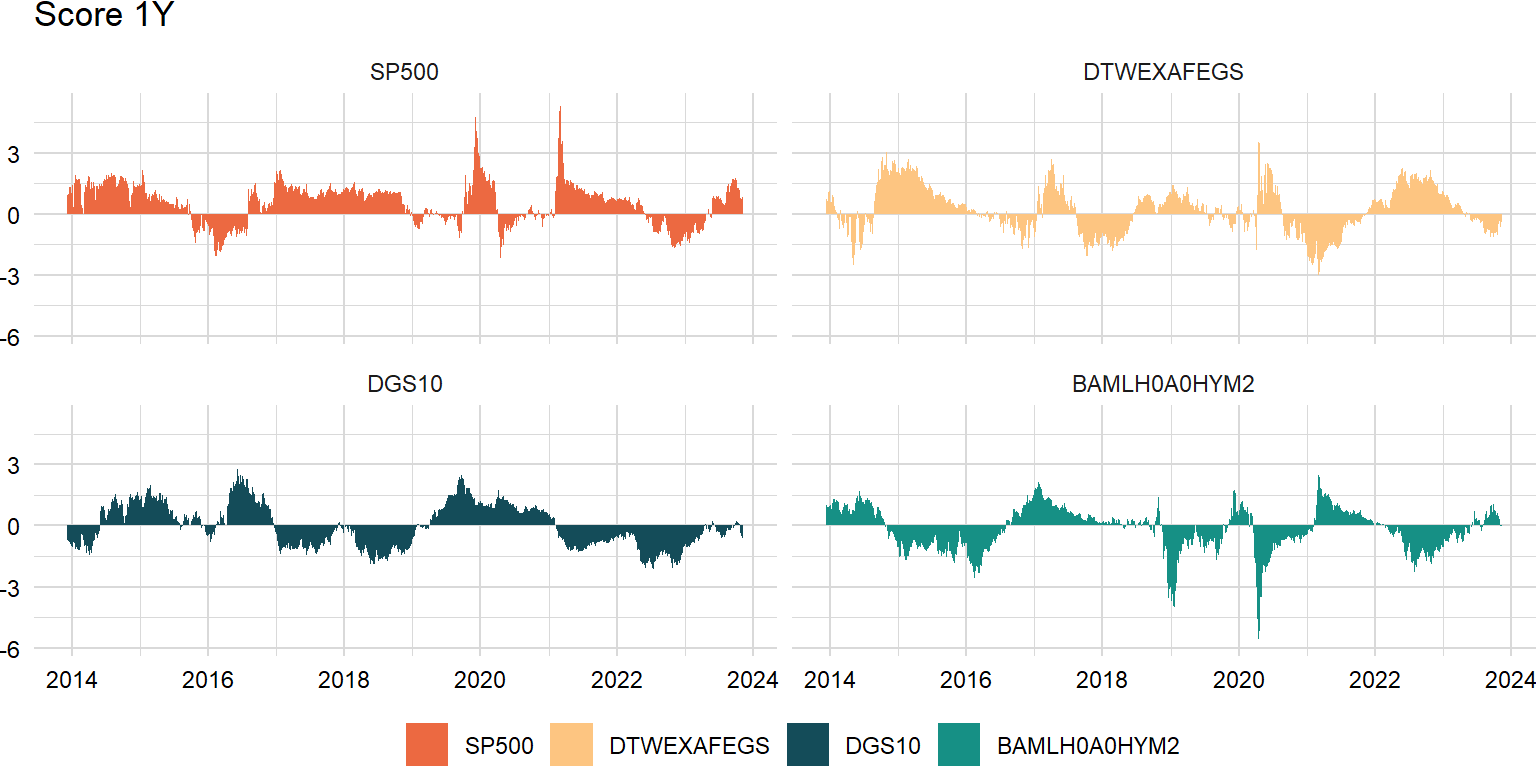
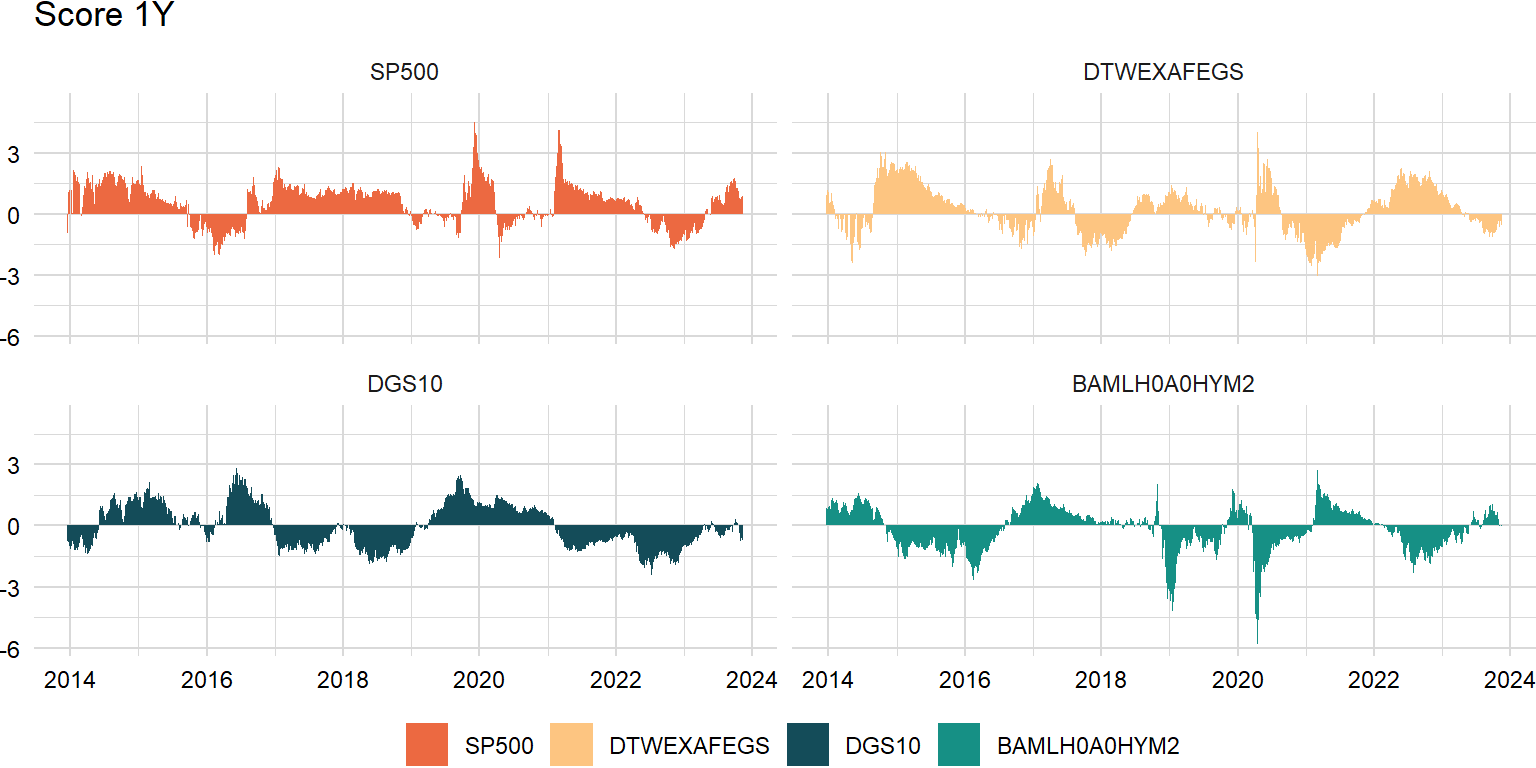
Version: 1.0.0

diff --git a/docs/posts/markets-r/index.html b/docs/posts/markets-r/index.html
@@ -7,7 +7,7 @@
 <meta name="viewport" content="width=device-width, initial-scale=1.0, user-scalable=yes">
 
 <meta name="author" content="Jason Foster">
-<meta name="dcterms.date" content="2023-11-11">
+<meta name="dcterms.date" content="2023-11-17">
 
 <title>jjf234.github.io - Markets</title>
 <style>
@@ -157,7 +157,7 @@ pre > code.sourceCode > span > a:first-child::before { text-decoration: underlin
       <div>
       <div class="quarto-title-meta-heading">Published</div>
       <div class="quarto-title-meta-contents">
-        <p class="date">November 11, 2023</p>
+        <p class="date">November 17, 2023</p>
       </div>
     </div>
     
@@ -320,31 +320,28 @@ pre > code.sourceCode > span > a:first-child::before { text-decoration: underlin
 <span id="cb12-10"><a href="#cb12-10" aria-hidden="true" tabindex="-1"></a>    <span class="cf">if</span> (n_cols <span class="sc">==</span> <span class="dv">1</span>) {</span>
 <span id="cb12-11"><a href="#cb12-11" aria-hidden="true" tabindex="-1"></a>      x <span class="ot">&lt;-</span> <span class="dv">1</span><span class="sc">:</span><span class="fu">length</span>(y)</span>
 <span id="cb12-12"><a href="#cb12-12" aria-hidden="true" tabindex="-1"></a>    } <span class="cf">else</span> {</span>
-<span id="cb12-13"><a href="#cb12-13" aria-hidden="true" tabindex="-1"></a>      </span>
-<span id="cb12-14"><a href="#cb12-14" aria-hidden="true" tabindex="-1"></a>      t <span class="ot">&lt;-</span> <span class="dv">1</span><span class="sc">:</span><span class="fu">length</span>(y)</span>
-<span id="cb12-15"><a href="#cb12-15" aria-hidden="true" tabindex="-1"></a>      x <span class="ot">&lt;-</span> <span class="fu">cbind</span>(t, z[ , <span class="sc">-</span>j])</span>
-<span id="cb12-16"><a href="#cb12-16" aria-hidden="true" tabindex="-1"></a>      </span>
-<span id="cb12-17"><a href="#cb12-17" aria-hidden="true" tabindex="-1"></a>    }</span>
-<span id="cb12-18"><a href="#cb12-18" aria-hidden="true" tabindex="-1"></a>    </span>
-<span id="cb12-19"><a href="#cb12-19" aria-hidden="true" tabindex="-1"></a>    coef <span class="ot">&lt;-</span> <span class="fu">coef</span>(<span class="fu">lm</span>(y <span class="sc">~</span> x))</span>
-<span id="cb12-20"><a href="#cb12-20" aria-hidden="true" tabindex="-1"></a>    predict <span class="ot">&lt;-</span> coef[<span class="dv">1</span>] <span class="sc">+</span> x <span class="sc">%*%</span> <span class="fu">as.matrix</span>(coef[<span class="sc">-</span><span class="dv">1</span>])</span>
-<span id="cb12-21"><a href="#cb12-21" aria-hidden="true" tabindex="-1"></a>    resid <span class="ot">&lt;-</span> y <span class="sc">-</span> predict</span>
-<span id="cb12-22"><a href="#cb12-22" aria-hidden="true" tabindex="-1"></a>    </span>
-<span id="cb12-23"><a href="#cb12-23" aria-hidden="true" tabindex="-1"></a>    lower <span class="ot">&lt;-</span> <span class="fu">quantile</span>(resid, <span class="at">prob =</span> <span class="fl">0.25</span>)</span>
-<span id="cb12-24"><a href="#cb12-24" aria-hidden="true" tabindex="-1"></a>    upper <span class="ot">&lt;-</span> <span class="fu">quantile</span>(resid, <span class="at">prob =</span> <span class="fl">0.75</span>)</span>
-<span id="cb12-25"><a href="#cb12-25" aria-hidden="true" tabindex="-1"></a>    iqr <span class="ot">&lt;-</span> upper <span class="sc">-</span> lower</span>
-<span id="cb12-26"><a href="#cb12-26" aria-hidden="true" tabindex="-1"></a>    </span>
-<span id="cb12-27"><a href="#cb12-27" aria-hidden="true" tabindex="-1"></a>    total <span class="ot">&lt;-</span> y[(resid <span class="sc">&lt;</span> lower <span class="sc">-</span> <span class="fl">1.5</span> <span class="sc">*</span> iqr) <span class="sc">|</span> (resid <span class="sc">&gt;</span> upper <span class="sc">+</span> <span class="fl">1.5</span> <span class="sc">*</span> iqr)]</span>
-<span id="cb12-28"><a href="#cb12-28" aria-hidden="true" tabindex="-1"></a>    </span>
-<span id="cb12-29"><a href="#cb12-29" aria-hidden="true" tabindex="-1"></a>    result_ls <span class="ot">&lt;-</span> <span class="fu">append</span>(result_ls, <span class="fu">list</span>(total))</span>
-<span id="cb12-30"><a href="#cb12-30" aria-hidden="true" tabindex="-1"></a>    </span>
-<span id="cb12-31"><a href="#cb12-31" aria-hidden="true" tabindex="-1"></a>  }</span>
-<span id="cb12-32"><a href="#cb12-32" aria-hidden="true" tabindex="-1"></a>  </span>
-<span id="cb12-33"><a href="#cb12-33" aria-hidden="true" tabindex="-1"></a>  result <span class="ot">&lt;-</span> <span class="fu">do.call</span>(merge, result_ls)</span>
-<span id="cb12-34"><a href="#cb12-34" aria-hidden="true" tabindex="-1"></a>  </span>
-<span id="cb12-35"><a href="#cb12-35" aria-hidden="true" tabindex="-1"></a>  <span class="fu">return</span>(result)</span>
-<span id="cb12-36"><a href="#cb12-36" aria-hidden="true" tabindex="-1"></a>  </span>
-<span id="cb12-37"><a href="#cb12-37" aria-hidden="true" tabindex="-1"></a>}</span></code><button title="Copy to Clipboard" class="code-copy-button"><i class="bi"></i></button></pre></div>
+<span id="cb12-13"><a href="#cb12-13" aria-hidden="true" tabindex="-1"></a>      x <span class="ot">&lt;-</span> <span class="fu">cbind</span>(<span class="dv">1</span><span class="sc">:</span><span class="fu">length</span>(y), z[ , <span class="sc">-</span>j])</span>
+<span id="cb12-14"><a href="#cb12-14" aria-hidden="true" tabindex="-1"></a>    }</span>
+<span id="cb12-15"><a href="#cb12-15" aria-hidden="true" tabindex="-1"></a>    </span>
+<span id="cb12-16"><a href="#cb12-16" aria-hidden="true" tabindex="-1"></a>    coef <span class="ot">&lt;-</span> <span class="fu">coef</span>(<span class="fu">lm</span>(y <span class="sc">~</span> x))</span>
+<span id="cb12-17"><a href="#cb12-17" aria-hidden="true" tabindex="-1"></a>    predict <span class="ot">&lt;-</span> coef[<span class="dv">1</span>] <span class="sc">+</span> x <span class="sc">%*%</span> <span class="fu">as.matrix</span>(coef[<span class="sc">-</span><span class="dv">1</span>])</span>
+<span id="cb12-18"><a href="#cb12-18" aria-hidden="true" tabindex="-1"></a>    resid <span class="ot">&lt;-</span> y <span class="sc">-</span> predict</span>
+<span id="cb12-19"><a href="#cb12-19" aria-hidden="true" tabindex="-1"></a>    </span>
+<span id="cb12-20"><a href="#cb12-20" aria-hidden="true" tabindex="-1"></a>    lower <span class="ot">&lt;-</span> <span class="fu">quantile</span>(resid, <span class="at">prob =</span> <span class="fl">0.25</span>)</span>
+<span id="cb12-21"><a href="#cb12-21" aria-hidden="true" tabindex="-1"></a>    upper <span class="ot">&lt;-</span> <span class="fu">quantile</span>(resid, <span class="at">prob =</span> <span class="fl">0.75</span>)</span>
+<span id="cb12-22"><a href="#cb12-22" aria-hidden="true" tabindex="-1"></a>    iqr <span class="ot">&lt;-</span> upper <span class="sc">-</span> lower</span>
+<span id="cb12-23"><a href="#cb12-23" aria-hidden="true" tabindex="-1"></a>    </span>
+<span id="cb12-24"><a href="#cb12-24" aria-hidden="true" tabindex="-1"></a>    total <span class="ot">&lt;-</span> y[(resid <span class="sc">&lt;</span> lower <span class="sc">-</span> <span class="fl">1.5</span> <span class="sc">*</span> iqr) <span class="sc">|</span> (resid <span class="sc">&gt;</span> upper <span class="sc">+</span> <span class="fl">1.5</span> <span class="sc">*</span> iqr)]</span>
+<span id="cb12-25"><a href="#cb12-25" aria-hidden="true" tabindex="-1"></a>    </span>
+<span id="cb12-26"><a href="#cb12-26" aria-hidden="true" tabindex="-1"></a>    result_ls <span class="ot">&lt;-</span> <span class="fu">append</span>(result_ls, <span class="fu">list</span>(total))</span>
+<span id="cb12-27"><a href="#cb12-27" aria-hidden="true" tabindex="-1"></a>    </span>
+<span id="cb12-28"><a href="#cb12-28" aria-hidden="true" tabindex="-1"></a>  }</span>
+<span id="cb12-29"><a href="#cb12-29" aria-hidden="true" tabindex="-1"></a>  </span>
+<span id="cb12-30"><a href="#cb12-30" aria-hidden="true" tabindex="-1"></a>  result <span class="ot">&lt;-</span> <span class="fu">do.call</span>(merge, result_ls)</span>
+<span id="cb12-31"><a href="#cb12-31" aria-hidden="true" tabindex="-1"></a>  </span>
+<span id="cb12-32"><a href="#cb12-32" aria-hidden="true" tabindex="-1"></a>  <span class="fu">return</span>(result)</span>
+<span id="cb12-33"><a href="#cb12-33" aria-hidden="true" tabindex="-1"></a>  </span>
+<span id="cb12-34"><a href="#cb12-34" aria-hidden="true" tabindex="-1"></a>}</span></code><button title="Copy to Clipboard" class="code-copy-button"><i class="bi"></i></button></pre></div>
 </div>
 <div class="cell">
 <div class="sourceCode cell-code" id="cb13"><pre class="sourceCode r code-with-copy"><code class="sourceCode r"><span id="cb13-1"><a href="#cb13-1" aria-hidden="true" tabindex="-1"></a>outliers_xts <span class="ot">&lt;-</span> <span class="fu">outliers</span>(score_xts)</span></code><button title="Copy to Clipboard" class="code-copy-button"><i class="bi"></i></button></pre></div>
@@ -386,7 +383,7 @@ pre > code.sourceCode > span > a:first-child::before { text-decoration: underlin
 <span id="cb15-12"><a href="#cb15-12" aria-hidden="true" tabindex="-1"></a>    fit <span class="ot">&lt;-</span> <span class="fu">lm</span>(y <span class="sc">~</span> lag_y <span class="sc">+</span> lag_x, <span class="at">data =</span> data)</span>
 <span id="cb15-13"><a href="#cb15-13" aria-hidden="true" tabindex="-1"></a>    </span>
 <span id="cb15-14"><a href="#cb15-14" aria-hidden="true" tabindex="-1"></a>    R <span class="ot">&lt;-</span> <span class="fu">matrix</span>(<span class="fu">c</span>(<span class="dv">0</span>, <span class="dv">0</span>, <span class="dv">1</span>), <span class="at">nrow =</span> <span class="dv">1</span>)</span>
-<span id="cb15-15"><a href="#cb15-15" aria-hidden="true" tabindex="-1"></a>    beta <span class="ot">&lt;-</span> <span class="fu">matrix</span>(fit<span class="sc">$</span>coefficients, <span class="at">ncol =</span> <span class="dv">1</span>)</span>
+<span id="cb15-15"><a href="#cb15-15" aria-hidden="true" tabindex="-1"></a>    beta <span class="ot">&lt;-</span> fit<span class="sc">$</span>coefficients</span>
 <span id="cb15-16"><a href="#cb15-16" aria-hidden="true" tabindex="-1"></a>    r <span class="ot">&lt;-</span> <span class="dv">0</span> <span class="co"># technically a matrix (see Stack Exchange)</span></span>
 <span id="cb15-17"><a href="#cb15-17" aria-hidden="true" tabindex="-1"></a>    </span>
 <span id="cb15-18"><a href="#cb15-18" aria-hidden="true" tabindex="-1"></a>    wald <span class="ot">&lt;-</span> <span class="fu">t</span>(R <span class="sc">%*%</span> beta <span class="sc">-</span> r) <span class="sc">%*%</span> <span class="fu">solve</span>(R <span class="sc">%*%</span> <span class="fu">vcov</span>(fit) <span class="sc">%*%</span> <span class="fu">t</span>(R)) <span class="sc">%*%</span> (R <span class="sc">%*%</span> beta <span class="sc">-</span> r)</span>
@@ -407,34 +404,28 @@ pre > code.sourceCode > span > a:first-child::before { text-decoration: underlin
 <span id="cb16-7"><a href="#cb16-7" aria-hidden="true" tabindex="-1"></a>    </span>
 <span id="cb16-8"><a href="#cb16-8" aria-hidden="true" tabindex="-1"></a>    <span class="cf">for</span> (i <span class="cf">in</span> width<span class="sc">:</span>n_rows) {</span>
 <span id="cb16-9"><a href="#cb16-9" aria-hidden="true" tabindex="-1"></a>        </span>
-<span id="cb16-10"><a href="#cb16-10" aria-hidden="true" tabindex="-1"></a>        x_y_status <span class="ot">&lt;-</span> <span class="cn">FALSE</span></span>
-<span id="cb16-11"><a href="#cb16-11" aria-hidden="true" tabindex="-1"></a>        y_x_status <span class="ot">&lt;-</span> <span class="cn">FALSE</span></span>
-<span id="cb16-12"><a href="#cb16-12" aria-hidden="true" tabindex="-1"></a>        </span>
-<span id="cb16-13"><a href="#cb16-13" aria-hidden="true" tabindex="-1"></a>        idx <span class="ot">&lt;-</span> <span class="fu">max</span>(i <span class="sc">-</span> width <span class="sc">+</span> <span class="dv">1</span>, <span class="dv">1</span>)<span class="sc">:</span>i</span>
+<span id="cb16-10"><a href="#cb16-10" aria-hidden="true" tabindex="-1"></a>        idx <span class="ot">&lt;-</span> <span class="fu">max</span>(i <span class="sc">-</span> width <span class="sc">+</span> <span class="dv">1</span>, <span class="dv">1</span>)<span class="sc">:</span>i</span>
+<span id="cb16-11"><a href="#cb16-11" aria-hidden="true" tabindex="-1"></a>        </span>
+<span id="cb16-12"><a href="#cb16-12" aria-hidden="true" tabindex="-1"></a>        x_y <span class="ot">&lt;-</span> <span class="fu">granger_test</span>(x[idx], y[idx], order)</span>
+<span id="cb16-13"><a href="#cb16-13" aria-hidden="true" tabindex="-1"></a>        y_x <span class="ot">&lt;-</span> <span class="fu">granger_test</span>(y[idx], x[idx], order)</span>
 <span id="cb16-14"><a href="#cb16-14" aria-hidden="true" tabindex="-1"></a>        </span>
-<span id="cb16-15"><a href="#cb16-15" aria-hidden="true" tabindex="-1"></a>        x_y <span class="ot">&lt;-</span> <span class="fu">granger_test</span>(x[idx], y[idx], order)</span>
-<span id="cb16-16"><a href="#cb16-16" aria-hidden="true" tabindex="-1"></a>        y_x <span class="ot">&lt;-</span> <span class="fu">granger_test</span>(y[idx], x[idx], order)</span>
+<span id="cb16-15"><a href="#cb16-15" aria-hidden="true" tabindex="-1"></a>        x_y_status <span class="ot">&lt;-</span> (x_y <span class="sc">&lt;</span> p_value) <span class="sc">&amp;&amp;</span> (y_x <span class="sc">&gt;</span> p_value)</span>
+<span id="cb16-16"><a href="#cb16-16" aria-hidden="true" tabindex="-1"></a>        y_x_status <span class="ot">&lt;-</span> (x_y <span class="sc">&gt;</span> p_value) <span class="sc">&amp;&amp;</span> (y_x <span class="sc">&lt;</span> p_value)</span>
 <span id="cb16-17"><a href="#cb16-17" aria-hidden="true" tabindex="-1"></a>        </span>
-<span id="cb16-18"><a href="#cb16-18" aria-hidden="true" tabindex="-1"></a>        <span class="cf">if</span> ((x_y <span class="sc">&lt;</span> p_value) <span class="sc">&amp;&amp;</span> (y_x <span class="sc">&gt;</span> p_value)) {</span>
-<span id="cb16-19"><a href="#cb16-19" aria-hidden="true" tabindex="-1"></a>            x_y_status <span class="ot">&lt;-</span> <span class="cn">TRUE</span> <span class="co"># x leads y </span></span>
-<span id="cb16-20"><a href="#cb16-20" aria-hidden="true" tabindex="-1"></a>        } <span class="cf">else</span> <span class="cf">if</span> ((x_y <span class="sc">&gt;</span> p_value) <span class="sc">&amp;&amp;</span> (y_x <span class="sc">&lt;</span> p_value)) {</span>
-<span id="cb16-21"><a href="#cb16-21" aria-hidden="true" tabindex="-1"></a>            y_x_status <span class="ot">&lt;-</span> <span class="cn">TRUE</span> <span class="co"># y leads x</span></span>
-<span id="cb16-22"><a href="#cb16-22" aria-hidden="true" tabindex="-1"></a>        }</span>
+<span id="cb16-18"><a href="#cb16-18" aria-hidden="true" tabindex="-1"></a>        total <span class="ot">&lt;-</span> <span class="fu">data.frame</span>(<span class="st">"x_y"</span> <span class="ot">=</span> x_y_status,</span>
+<span id="cb16-19"><a href="#cb16-19" aria-hidden="true" tabindex="-1"></a>                            <span class="st">"y_x"</span> <span class="ot">=</span> y_x_status)</span>
+<span id="cb16-20"><a href="#cb16-20" aria-hidden="true" tabindex="-1"></a>        <span class="fu">colnames</span>(total) <span class="ot">&lt;-</span> <span class="fu">c</span>(x_name, y_name)</span>
+<span id="cb16-21"><a href="#cb16-21" aria-hidden="true" tabindex="-1"></a>        </span>
+<span id="cb16-22"><a href="#cb16-22" aria-hidden="true" tabindex="-1"></a>        result_ls <span class="ot">&lt;-</span> <span class="fu">append</span>(result_ls, <span class="fu">list</span>(total))</span>
 <span id="cb16-23"><a href="#cb16-23" aria-hidden="true" tabindex="-1"></a>        </span>
-<span id="cb16-24"><a href="#cb16-24" aria-hidden="true" tabindex="-1"></a>        total <span class="ot">&lt;-</span> <span class="fu">data.frame</span>(<span class="st">"x_y"</span> <span class="ot">=</span> x_y_status,</span>
-<span id="cb16-25"><a href="#cb16-25" aria-hidden="true" tabindex="-1"></a>                            <span class="st">"y_x"</span> <span class="ot">=</span> y_x_status)</span>
-<span id="cb16-26"><a href="#cb16-26" aria-hidden="true" tabindex="-1"></a>        <span class="fu">colnames</span>(total) <span class="ot">&lt;-</span> <span class="fu">c</span>(x_name, y_name)</span>
-<span id="cb16-27"><a href="#cb16-27" aria-hidden="true" tabindex="-1"></a>        </span>
-<span id="cb16-28"><a href="#cb16-28" aria-hidden="true" tabindex="-1"></a>        result_ls <span class="ot">&lt;-</span> <span class="fu">append</span>(result_ls, <span class="fu">list</span>(total))</span>
-<span id="cb16-29"><a href="#cb16-29" aria-hidden="true" tabindex="-1"></a>        </span>
-<span id="cb16-30"><a href="#cb16-30" aria-hidden="true" tabindex="-1"></a>    }</span>
-<span id="cb16-31"><a href="#cb16-31" aria-hidden="true" tabindex="-1"></a>    </span>
-<span id="cb16-32"><a href="#cb16-32" aria-hidden="true" tabindex="-1"></a>    result <span class="ot">&lt;-</span> <span class="fu">do.call</span>(rbind, result_ls)</span>
-<span id="cb16-33"><a href="#cb16-33" aria-hidden="true" tabindex="-1"></a>    result <span class="ot">&lt;-</span> <span class="fu">xts</span>(result, <span class="fu">index</span>(x)[width<span class="sc">:</span>n_rows])</span>
-<span id="cb16-34"><a href="#cb16-34" aria-hidden="true" tabindex="-1"></a>    </span>
-<span id="cb16-35"><a href="#cb16-35" aria-hidden="true" tabindex="-1"></a>    <span class="fu">return</span>(result)</span>
-<span id="cb16-36"><a href="#cb16-36" aria-hidden="true" tabindex="-1"></a>    </span>
-<span id="cb16-37"><a href="#cb16-37" aria-hidden="true" tabindex="-1"></a>}</span></code><button title="Copy to Clipboard" class="code-copy-button"><i class="bi"></i></button></pre></div>
+<span id="cb16-24"><a href="#cb16-24" aria-hidden="true" tabindex="-1"></a>    }</span>
+<span id="cb16-25"><a href="#cb16-25" aria-hidden="true" tabindex="-1"></a>    </span>
+<span id="cb16-26"><a href="#cb16-26" aria-hidden="true" tabindex="-1"></a>    result <span class="ot">&lt;-</span> <span class="fu">do.call</span>(rbind, result_ls)</span>
+<span id="cb16-27"><a href="#cb16-27" aria-hidden="true" tabindex="-1"></a>    result <span class="ot">&lt;-</span> <span class="fu">xts</span>(result, <span class="fu">index</span>(x)[width<span class="sc">:</span>n_rows])</span>
+<span id="cb16-28"><a href="#cb16-28" aria-hidden="true" tabindex="-1"></a>    </span>
+<span id="cb16-29"><a href="#cb16-29" aria-hidden="true" tabindex="-1"></a>    <span class="fu">return</span>(result)</span>
+<span id="cb16-30"><a href="#cb16-30" aria-hidden="true" tabindex="-1"></a>    </span>
+<span id="cb16-31"><a href="#cb16-31" aria-hidden="true" tabindex="-1"></a>}</span></code><button title="Copy to Clipboard" class="code-copy-button"><i class="bi"></i></button></pre></div>
 </div>
 <div class="cell">
 <div class="sourceCode cell-code" id="cb17"><pre class="sourceCode r code-with-copy"><code class="sourceCode r"><span id="cb17-1"><a href="#cb17-1" aria-hidden="true" tabindex="-1"></a>p_value <span class="ot">&lt;-</span> <span class="fl">0.05</span></span></code><button title="Copy to Clipboard" class="code-copy-button"><i class="bi"></i></button></pre></div>

diff --git a/docs/index.html b/docs/index.html
@@ -161,7 +161,41 @@ ul.task-list li input[type="checkbox"] {
 
 <div class="quarto-listing quarto-listing-container-grid" id="listing-listing">
 <div class="list grid quarto-listing-cols-3">
-<div class="g-col-1" data-index="0" data-categories="analysis,finance,python" data-listing-date-sort="1700259918000" data-listing-file-modified-sort="1700259918392" data-listing-date-modified-sort="NaN" data-listing-reading-time-sort="6">
+<div class="g-col-1" data-index="0" data-categories="analysis,finance,r" data-listing-date-sort="1700260809000" data-listing-file-modified-sort="1700260809842" data-listing-date-modified-sort="NaN" data-listing-reading-time-sort="6">
+<a href="./posts/markets-r/index.html" class="quarto-grid-link">
+</a><div class="quarto-grid-item card h-100 card-left"><a href="./posts/markets-r/index.html" class="quarto-grid-link">
+<p class="card-img-top"><img src="posts\markets-r\index_files\figure-html\unnamed-chunk-9-1.png" style="height: 0px;"  class="thumbnail-image card-img"/></p>
+</a><div class="card-body post-contents"><a href="./posts/markets-r/index.html" class="quarto-grid-link">
+<h5 class="no-anchor card-title listing-title">
+Markets
+</h5>
+<div class="listing-categories">
+<div class="listing-category" onclick="window.quartoListingCategory('analysis'); return false;">
+analysis
+</div>
+<div class="listing-category" onclick="window.quartoListingCategory('finance'); return false;">
+finance
+</div>
+<div class="listing-category" onclick="window.quartoListingCategory('r'); return false;">
+r
+</div>
+</div>
+<div class="card-text listing-description">
+One month reversal and 2-12 month momentum are two ends of the spectrum. The general trend indicates that positive acceleration leads to reversals or negative acceleration…
+</div>
+</a><div class="card-attribution card-text-small justify"><a href="./posts/markets-r/index.html" class="quarto-grid-link">
+</a><div class="listing-author"><a href="./posts/markets-r/index.html" class="quarto-grid-link">
+</a><a href="mailto:jason.j.foster@gmail.com">Jason Foster</a>
+</div>
+<div class="listing-date">
+Nov 17, 2023
+</div>
+</div>
+</div>
+</div>
+
+</div>
+<div class="g-col-1" data-index="1" data-categories="analysis,finance,python" data-listing-date-sort="1700259918000" data-listing-file-modified-sort="1700259918392" data-listing-date-modified-sort="NaN" data-listing-reading-time-sort="6">
 <a href="./posts/markets-py/index.html" class="quarto-grid-link">
 </a><div class="quarto-grid-item card h-100 card-left"><a href="./posts/markets-py/index.html" class="quarto-grid-link">
 <p class="card-img-top"><img src="posts\markets-py\index_files\figure-html\unnamed-chunk-11-1.png" style="height: 0px;"  class="thumbnail-image card-img"/></p>
@@ -195,7 +229,7 @@ Nov 17, 2023
 </div>
 
 </div>
-<div class="g-col-1" data-index="1" data-categories="analysis,finance,python" data-listing-date-sort="1700237704000" data-listing-file-modified-sort="1700237704178" data-listing-date-modified-sort="NaN" data-listing-reading-time-sort="23">
+<div class="g-col-1" data-index="2" data-categories="analysis,finance,python" data-listing-date-sort="1700237704000" data-listing-file-modified-sort="1700237704178" data-listing-date-modified-sort="NaN" data-listing-reading-time-sort="23">
 <a href="./posts/securities-py/index.html" class="quarto-grid-link">
 </a><div class="quarto-grid-item card h-100 card-left"><a href="./posts/securities-py/index.html" class="quarto-grid-link">
 <p class="card-img-top"><img src="posts\securities-py\index_files\figure-html\unnamed-chunk-25-1.png" style="height: 0px;"  class="thumbnail-image card-img"/></p>
@@ -229,7 +263,7 @@ Nov 17, 2023
 </div>
 
 </div>
-<div class="g-col-1" data-index="2" data-categories="analysis,finance,r" data-listing-date-sort="1699804558000" data-listing-file-modified-sort="1699804558592" data-listing-date-modified-sort="NaN" data-listing-reading-time-sort="25">
+<div class="g-col-1" data-index="3" data-categories="analysis,finance,r" data-listing-date-sort="1699804558000" data-listing-file-modified-sort="1699804558592" data-listing-date-modified-sort="NaN" data-listing-reading-time-sort="25">
 <a href="./posts/portfolios-r/index.html" class="quarto-grid-link">
 </a><div class="quarto-grid-item card h-100 card-left"><a href="./posts/portfolios-r/index.html" class="quarto-grid-link">
 <p class="card-img-top"><img src="posts\portfolios-r\index_files\figure-html\unnamed-chunk-40-1.png" style="height: 0px;"  class="thumbnail-image card-img"/></p>
@@ -267,7 +301,7 @@ Nov 12, 2023
 </div>
 
 </div>
-<div class="g-col-1" data-index="3" data-categories="analysis,finance,python" data-listing-date-sort="1699804114000" data-listing-file-modified-sort="1699804114689" data-listing-date-modified-sort="NaN" data-listing-reading-time-sort="27">
+<div class="g-col-1" data-index="4" data-categories="analysis,finance,python" data-listing-date-sort="1699804114000" data-listing-file-modified-sort="1699804114689" data-listing-date-modified-sort="NaN" data-listing-reading-time-sort="27">
 <a href="./posts/portfolios-py/index.html" class="quarto-grid-link">
 </a><div class="quarto-grid-item card h-100 card-left"><a href="./posts/portfolios-py/index.html" class="quarto-grid-link">
 <p class="card-img-top"><img src="posts\portfolios-py\index_files\figure-html\unnamed-chunk-43-1.png" style="height: 0px;"  class="thumbnail-image card-img"/></p>
@@ -305,7 +339,7 @@ Nov 12, 2023
 </div>
 
 </div>
-<div class="g-col-1" data-index="4" data-categories="analysis,finance,r" data-listing-date-sort="1699801745000" data-listing-file-modified-sort="1699801745214" data-listing-date-modified-sort="NaN" data-listing-reading-time-sort="21">
+<div class="g-col-1" data-index="5" data-categories="analysis,finance,r" data-listing-date-sort="1699801745000" data-listing-file-modified-sort="1699801745214" data-listing-date-modified-sort="NaN" data-listing-reading-time-sort="21">
 <a href="./posts/securities-r/index.html" class="quarto-grid-link">
 </a><div class="quarto-grid-item card h-100 card-left"><a href="./posts/securities-r/index.html" class="quarto-grid-link">
 <p class="card-img-top"><img src="posts\securities-r\index_files\figure-html\unnamed-chunk-24-1.png" style="height: 0px;"  class="thumbnail-image card-img"/></p>
@@ -333,40 +367,6 @@ For a given spot price <span class="math inline">\(S\)</span>, strike price <spa
 </div>
 <div class="listing-date">
 Nov 12, 2023
-</div>
-</div>
-</div>
-</div>
-
-</div>
-<div class="g-col-1" data-index="5" data-categories="analysis,finance,r" data-listing-date-sort="1699750027000" data-listing-file-modified-sort="1699750027128" data-listing-date-modified-sort="NaN" data-listing-reading-time-sort="6">
-<a href="./posts/markets-r/index.html" class="quarto-grid-link">
-</a><div class="quarto-grid-item card h-100 card-left"><a href="./posts/markets-r/index.html" class="quarto-grid-link">
-<p class="card-img-top"><img src="posts\markets-r\index_files\figure-html\unnamed-chunk-9-1.png" style="height: 0px;"  class="thumbnail-image card-img"/></p>
-</a><div class="card-body post-contents"><a href="./posts/markets-r/index.html" class="quarto-grid-link">
-<h5 class="no-anchor card-title listing-title">
-Markets
-</h5>
-<div class="listing-categories">
-<div class="listing-category" onclick="window.quartoListingCategory('analysis'); return false;">
-analysis
-</div>
-<div class="listing-category" onclick="window.quartoListingCategory('finance'); return false;">
-finance
-</div>
-<div class="listing-category" onclick="window.quartoListingCategory('r'); return false;">
-r
-</div>
-</div>
-<div class="card-text listing-description">
-One month reversal and 2-12 month momentum are two ends of the spectrum. The general trend indicates that positive acceleration leads to reversals or negative acceleration…
-</div>
-</a><div class="card-attribution card-text-small justify"><a href="./posts/markets-r/index.html" class="quarto-grid-link">
-</a><div class="listing-author"><a href="./posts/markets-r/index.html" class="quarto-grid-link">
-</a><a href="mailto:jason.j.foster@gmail.com">Jason Foster</a>
-</div>
-<div class="listing-date">
-Nov 11, 2023
 </div>
 </div>
 </div>
